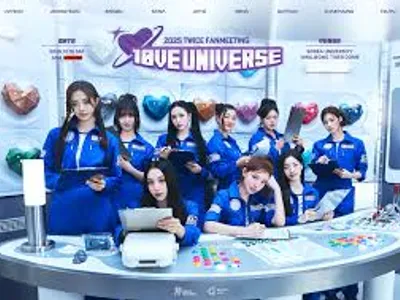
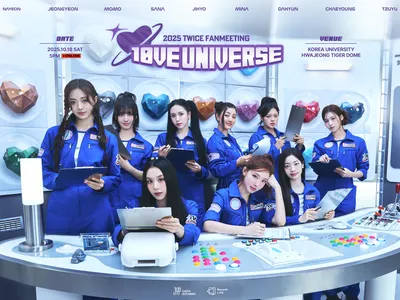
fan meeting blog post first part

diff --git a/content/blogs/fanmeeting.md b/content/blogs/fanmeeting.md
@@ -1,0 +1,117 @@
+---
+slug: fanmeeting
+title: TWICE 10th ANIVERSARY FANMEETING - 10VE UNIVERSE
+description: The coolest event a ONCE could ever attend
+publishdate: '2025-10-18'
+draft: false
+tags: ['TWICE', 'K-pop']
+thumb: sss
+photos: ["sss", "love", "c-1", "c-2", "c-3", "c-4", "c-5", "twively", "webp-lightstick", "c-bong", "jihyo-stan", "venue"]
+---
+
+I got the very special oppertunity to attend TWICE's 10th aniversary fanmeeting. This might be one of the coolest events for a TWICE fan to attend live. It more then three hours of songs, fanservice and affirmations of love mutal between TWICE and ONCE. 
+
+I'll tell you about what went into it, the fans, the gear and ofcourse the show itsself. I'll be using pictures I took my self, pictures I found on social media and some screengrabs from the livestream. 
+
+
+## How do TWICE Fanmeetings work?
+A fanmeeting is different from a concert. Instead of just playing music the members tell storiesm play games and they tell the fans how much they mean to them. TWICE excells at this fan service. They have multiple songs dedicated to their fans, like [ONE IN A MILLION](https://www.youtube.com/watch?v=OA41_pkBL50), which is also part of their greeting, referring to the small change they had of becomming kpop starts, and [21:29](https://www.youtube.com/watch?v=gsmSi4avq-0) referencing "To once, from TWICE (9 members)" with the members writing their own lyrics expressing their love for their fans. They also have hours of content uploaded on their youtube channel where they play games together, solves escape rooms go on 'friend-dates' for their fans to gobble up.  
+
+This is offcourse all part of their marketing strategy to strengthen the parasocial bond the fans have to the artist, but with TWICE I find it hard to find where they kayfabe ends. Also, as a fan, it is way more fun believing the sugary sweet words instead of being cynical about it. 
+
+You might wonder: why go to a concert when they don't even play that many songs? But it is not about the songs. It is about being with together with other die-hard fans, and having a special bonding moment with the artists you all admire. Seeing the members interact with eachother, and have funs make a happy. I saw a Japanese fan write online:
+
+> These 9 women truly love eachother, and that love overflows onto ONCE
+
+<Img love desc="Not only co-workers, but actually friends?">
+
+Even the name of the event, 10VE UNIVERSE, uses the number of years they have been together to write the world LOVE. They use uses these kinds of  have have lose of these corny names.   
+
+TWICE actualy debut dat is October 20th 2025. This is really close to Halloween, so in previous of their fanmeeting they dressed up in Halloween costumes. But after the tragic crowdcrush event in 2022, doing this so openly is seen in bad taste. Ever since they have chosen to choose a single concept and stick to it, like last year it was Baseball themed. This years theme is Time-capusule (which you send into outerspace / the universe I guess?). The fans are encourgaed to dress up tough, and they did a great jon! 
+
+### The Guests
+Among the attendees where many mini-celebraties from inside the fandom. There were famous fan-accounts admins (people collectie TWICE content, translate it and share it with the fans), fan-art artists and fan-fiction writers. The friends and family of the idols were also in attendence, there was a line forming of people wanting to take a picture with Sana's parents. I saw people from many different counties, ages and backgrounds. I even believe I saw the person I was seated next to on the flight back from Macau, that was rewatching videos from that concert.    
+
+There were also a lot of people dressing up as their favourite TWICE moments from the past 10 years!
+
+<Img c-1 desc="Dressing up as Cheayoung icon look from the FANCY music video">
+
+<Img c-2 desc="Matching Sana's outfit from the CHEER UP Era">
+
+<Img c-3 desc="That time Dahyun dressed up as the Geenie from Aladin">
+
+<Img c-4 desc="A Jeongjun fan dressing up like the madhatter, same as she did">
+
+<Img c-5 desc="A Mexican fan dressing up as his version of a Jively">
+
+
+### TWIVELY - The TWICE Mascots
+You might have spotted some of the TWIVELY's already. These are the TWICE Mascots. There are 10 of them, one for TWICE as a whole, and the on for each member in their respective colors. The TWICE logo also has specific colors (Apricot and Pink). These colors where chosen my the company on debut, and the exact color hex codes where shared so that fans can create their own fan content for them. 
+
+<Img twively desc="A chart of all te TWIVELY's">
+
+They started this trend in Japan, where TWICE is the most popular, but it has since bleed out to other regions. People collect the TWIVELY's of their favorite member and display them proudly. 
+
+<Img jihyo-stan desc="This person really likes Jihyo">
+
+
+### Candy Bong - The TWICE Lightstick 
+Another Item every fan must have it a Candy Bong. This is a lightstick, that you can wave around during the a concert. They are around 30cm tall, and have a multicolored LED at the top. Once you turn them on they automatically connect to a bluetooth central hub, and are then controller remotely so the colors a light up in the style during the concert. Is it really nice to have something like this you can swing around during a concert instead of just sitting on your chair. For the performers this is also a nice thing, the venue can be quite dark when they are performing, having those lights in the crowd is a cool touch. 
+
+
+<Img webp-lightstick desc="The lightstick in action">
+
+And ofcourse you can also buy accessories for you Candy Bong to dress it up. 
+
+<Img c-bong desc="A Chaengvely Candy Bong from a Chaeyoung stan">
+
+## The Location - The Tiger Dome
+The event was hosted at the Tiger Dome. The gymnasium of Korea University. It only has a capacity of ~6000, which many fans said was way too small. They had decorated it with big posters. 
+
+
+<Img venue desc="The venue, all decorated">
+
+
+# The Event itself
+
+## First section
+
+## change
+
+## Heartfelt message
+
+
+Confession of love
+
+
+Birthday cake, singing happy birthday. 
+
+
+## Fanmeeting
+
+## My Experience of it
+
+I couldn't understand all of the korea, maybe 50%. But it got the gist of most if it.  
+
+
+
+
+## The songs they play:
+
+- TWICE Song
+- Talk That Talk
+- This is for
+- Strategy
+- Like Ooh-aah
+- Signal
+- BDZ
+- Knock Knock
+- Like a fool
+- Depend on you
+- Some one like me
+- Goiing crazy
+- Trought
+- One in a million
+- Me+You
+
+Encores 2 encores
